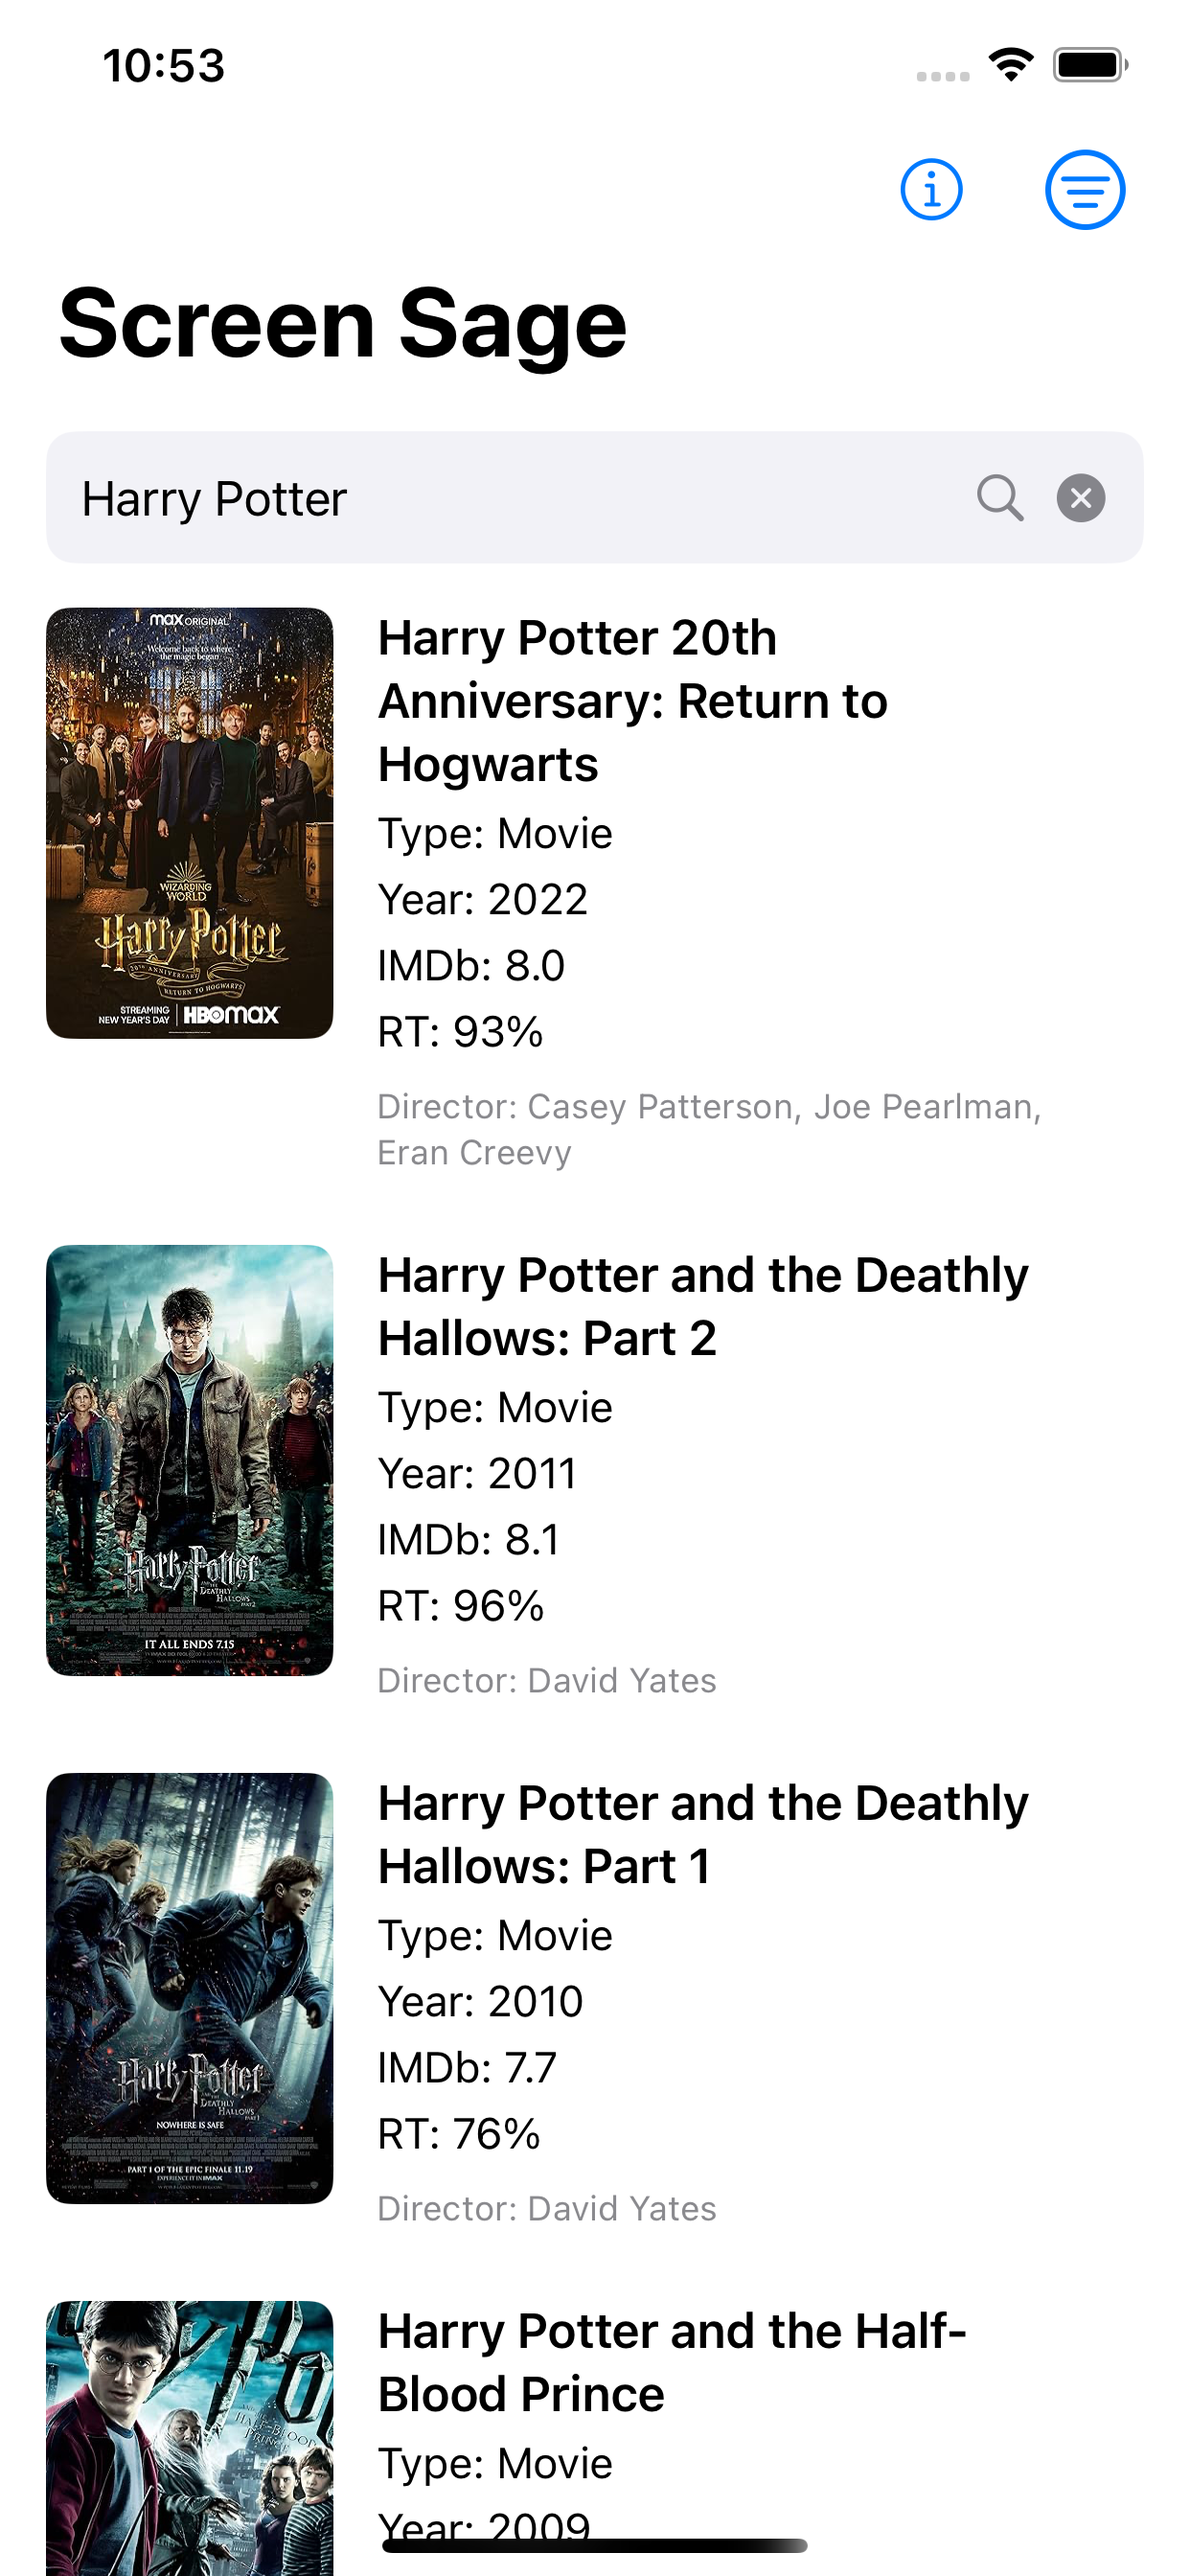
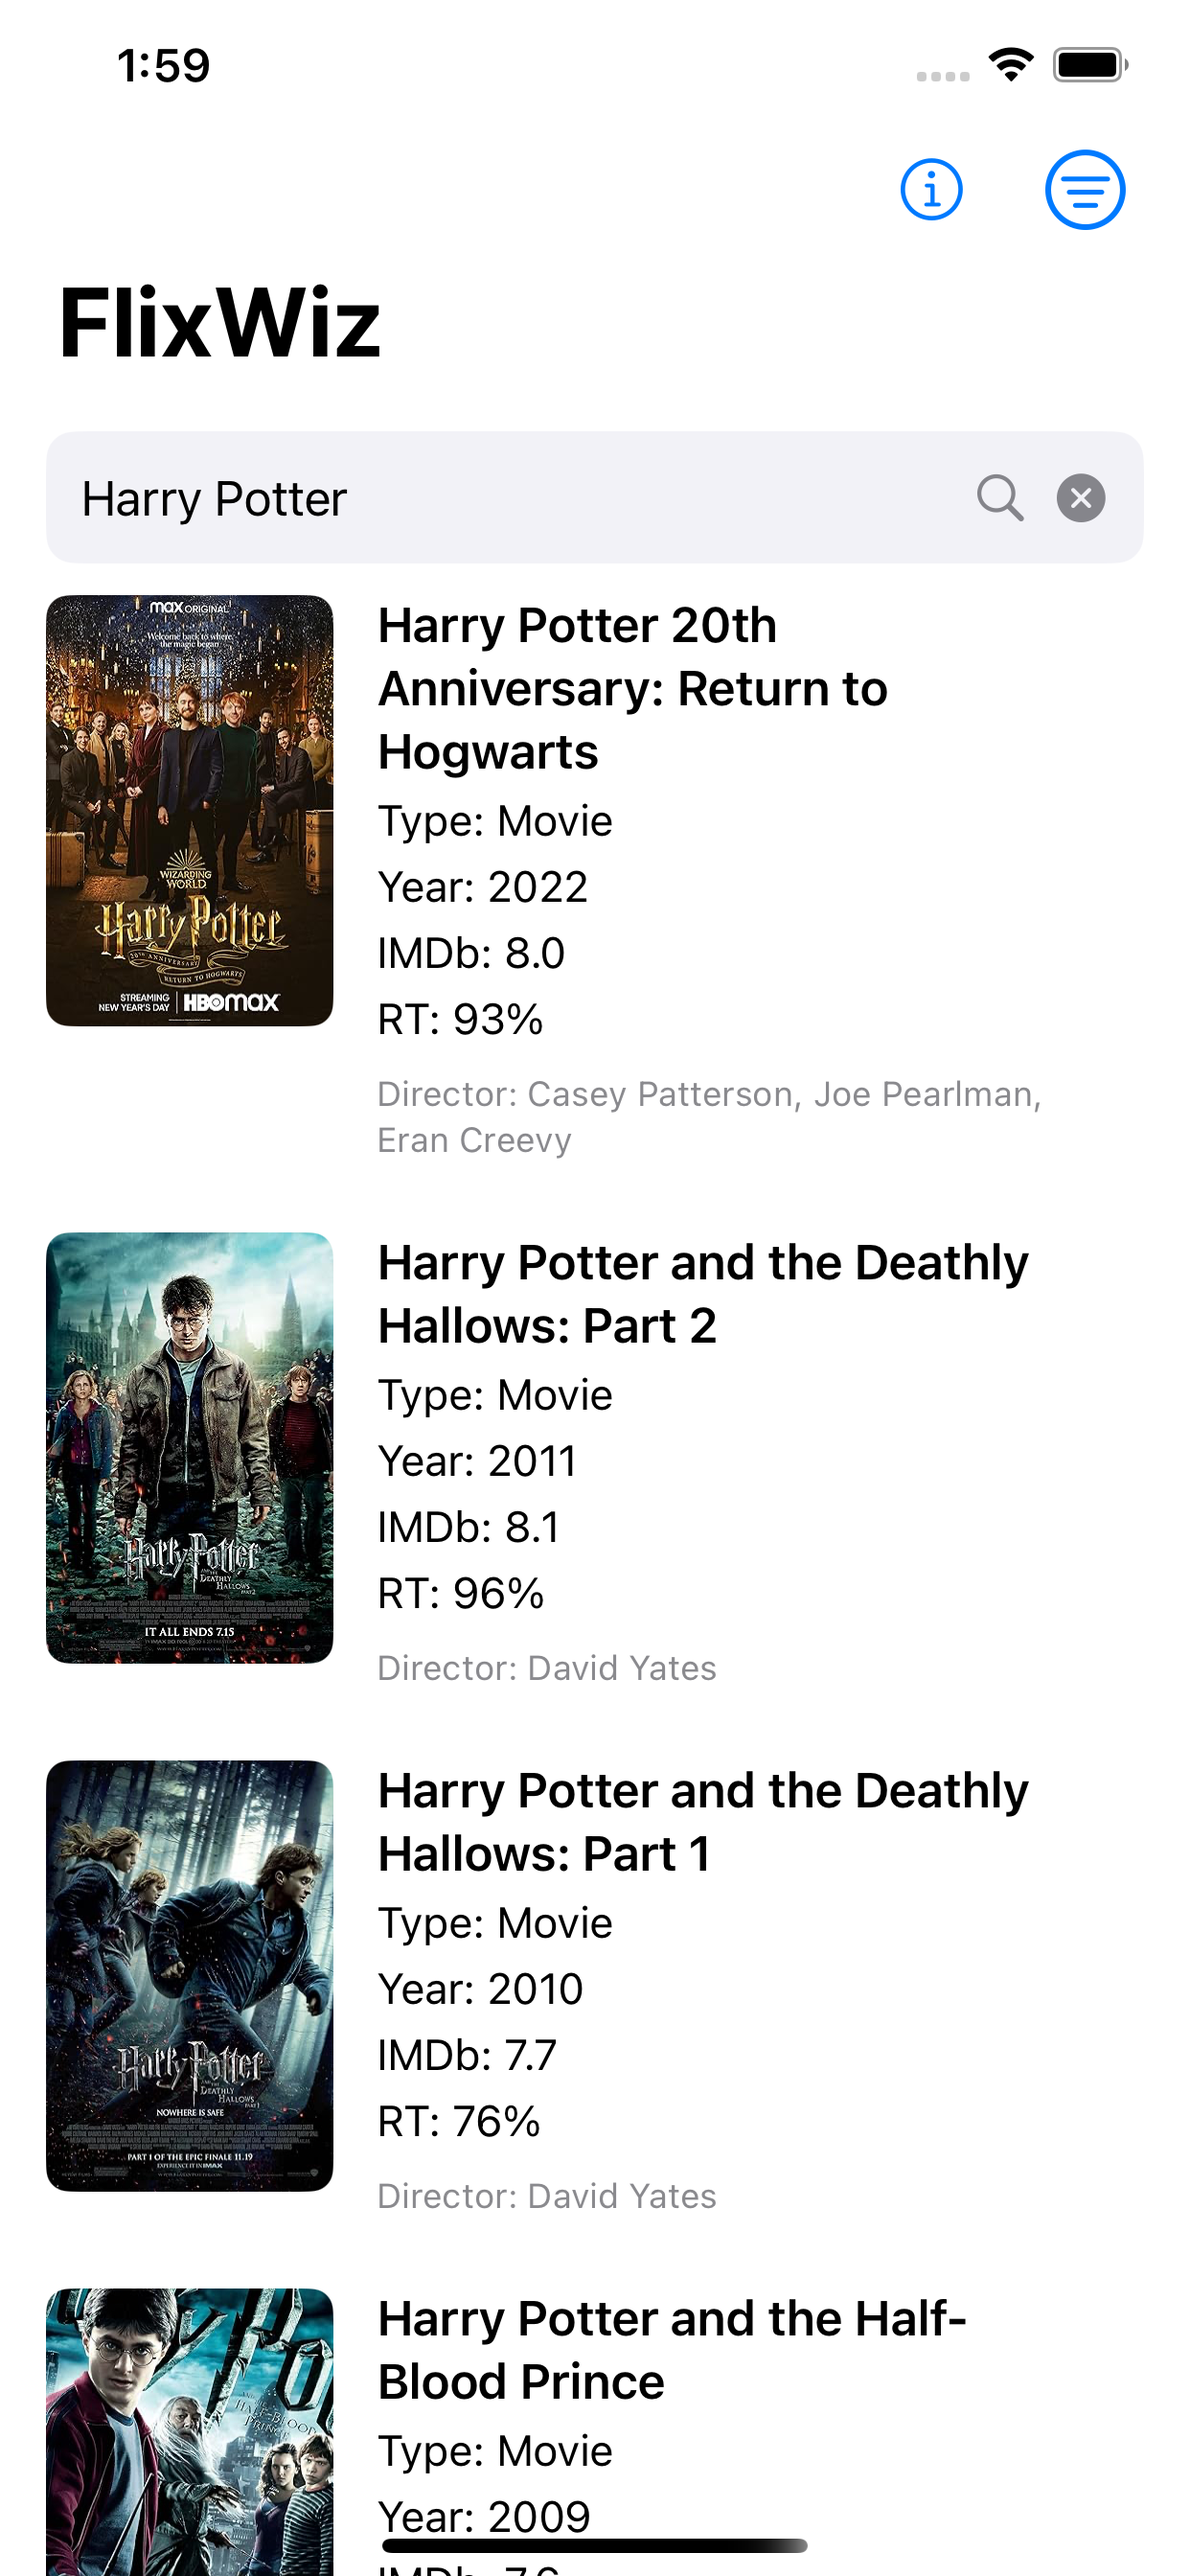
Finished renaming to FlixWiz

diff --git a/ios/FlixWiz/AboutView.swift b/ios/FlixWiz/AboutView.swift
@@ -1,6 +1,6 @@
 //
 //  AboutView.swift
-//  ScreenSage
+//  FlixWiz
 //
 
 import SwiftUI
@@ -13,14 +13,14 @@ struct AboutView: View {
             Form {
                 Section {
                     VStack(alignment: .center, spacing: 20) {
-                        Image("ScreenSage_img")
+                        Image("FlixWiz_img")
                             .resizable()
                             .aspectRatio(contentMode: .fit)
                             .frame(width: 100, height: 100)
                             .clipShape(RoundedRectangle(cornerRadius: 18))
                             .shadow(radius: 5)
                         
-                        Text("Censusly")
+                        Text("FlixWiz")
                             .font(.largeTitle)
                             .fontWeight(.bold)
                         

diff --git a/ios/FlixWizUITests/FlixWizUITests.swift b/ios/FlixWizUITests/FlixWizUITests.swift
@@ -1,13 +1,11 @@
 //
-//  ScreenSageUITests.swift
-//  ScreenSageUITests
-//
-//  Created by Ankur Saxena on 8/19/25.
+//  FlixWizUITests.swift
+//  FlixWizUITests
 //
 
 import XCTest
 
-final class ScreenSageUITests: XCTestCase {
+final class FlixWizUITests: XCTestCase {
 
     override func setUpWithError() throws {
         // Put setup code here. This method is called before the invocation of each test method in the class.

diff --git a/ios/FlixWizTests/FlixWizTests.swift b/ios/FlixWizTests/FlixWizTests.swift
@@ -1,14 +1,12 @@
 //
-//  ScreenSageTests.swift
-//  ScreenSageTests
-//
-//  Created by Ankur Saxena on 8/19/25.
+//  FlixWizTests.swift
+//  FlixWizTests
 //
 
 import Testing
-@testable import ScreenSage
+@testable import FlixWiz
 
-struct ScreenSageTests {
+struct FlixWizTests {
 
     @Test func example() async throws {
         // Write your test here and use APIs like `#expect(...)` to check expected conditions.

diff --git a/ios/FlixWizUITests/FlixWizUITestsLaunchTests.swift b/ios/FlixWizUITests/FlixWizUITestsLaunchTests.swift
@@ -1,11 +1,11 @@
 //
-//  ScreenSageUITestsLaunchTests.swift
-//  ScreenSageUITests
+//  FlixWizUITestsLaunchTests.swift
+//  FlixWizUITests
 //
 
 import XCTest
 
-final class ScreenSageUITestsLaunchTests: XCTestCase {
+final class FlixWizUITestsLaunchTests: XCTestCase {
 
     override class var runsForEachTargetApplicationUIConfiguration: Bool {
         true

diff --git a/ios/FlixWiz/ContentView.swift b/ios/FlixWiz/ContentView.swift
@@ -77,7 +77,7 @@ struct ContentView: View {
                     }
                 }
             }
-            .navigationTitle("Screen Sage")
+            .navigationTitle("FlixWiz")
             .navigationBarTitleDisplayMode(.large)
             .toolbar {
                 ToolbarItem(placement: .navigationBarTrailing) {

diff --git a/ios/FlixWiz/FlixWizApp.swift b/ios/FlixWiz/FlixWizApp.swift
@@ -1,14 +1,12 @@
 //
-//  ScreenSageApp.swift
-//  ScreenSage
-//
-//  Created by Ankur Saxena on 8/19/25.
+//  FlixWizApp.swift
+//  FlixWiz
 //
 
 import SwiftUI
 
 @main
-struct ScreenSageApp: App {
+struct FlixWizApp: App {
     var body: some Scene {
         WindowGroup {
             ContentView()

diff --git a/ios/FlixWiz/WatchmodeModels.swift b/ios/FlixWiz/WatchmodeModels.swift
@@ -1,6 +1,6 @@
 //
 //  WatchmodeModels.swift
-//  ScreenSage
+//  FlixWiz
 //
 
 import Foundation

diff --git a/ios/FlixWiz/AppInfoHelper.swift b/ios/FlixWiz/AppInfoHelper.swift
@@ -1,6 +1,6 @@
 //
 //  AppInfoHelper.swift
-//  ScreenSage
+//  FlixWiz
 //
 
 import Foundation

diff --git a/ios/FlixWiz/MovieDetailView.swift b/ios/FlixWiz/MovieDetailView.swift
@@ -1,6 +1,6 @@
 //
 //  MovieDetailView.swift
-//  ScreenSage
+//  FlixWiz
 //
 
 import SwiftUI

diff --git a/ios/FlixWiz/OMDBModels.swift b/ios/FlixWiz/OMDBModels.swift
@@ -1,6 +1,6 @@
 //
 //  OMDBModels.swift
-//  ScreenSage
+//  FlixWiz
 //
 
 import Foundation

diff --git a/ios/FlixWiz/TrendingView.swift b/ios/FlixWiz/TrendingView.swift
@@ -1,6 +1,6 @@
 //
 //  TrendingView.swift
-//  ScreenSage
+//  FlixWiz
 //
 
 import SwiftUI

diff --git a/ios/FlixWiz/TMDBModels.swift b/ios/FlixWiz/TMDBModels.swift
@@ -1,6 +1,6 @@
 //
 //  TMDBModels.swift
-//  ScreenSage
+//  FlixWiz
 
 import Foundation
 
